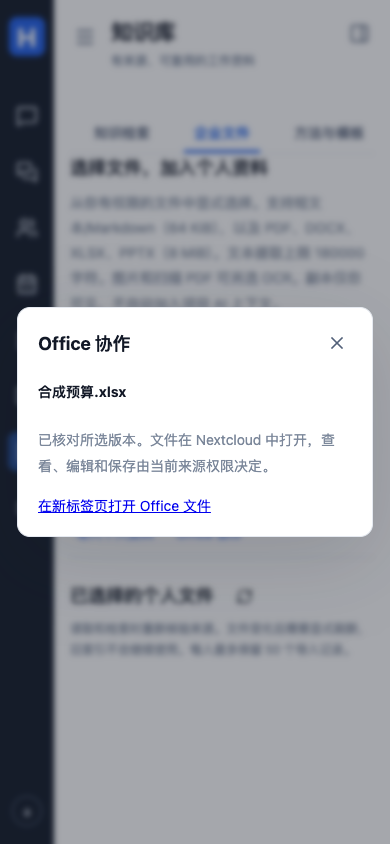
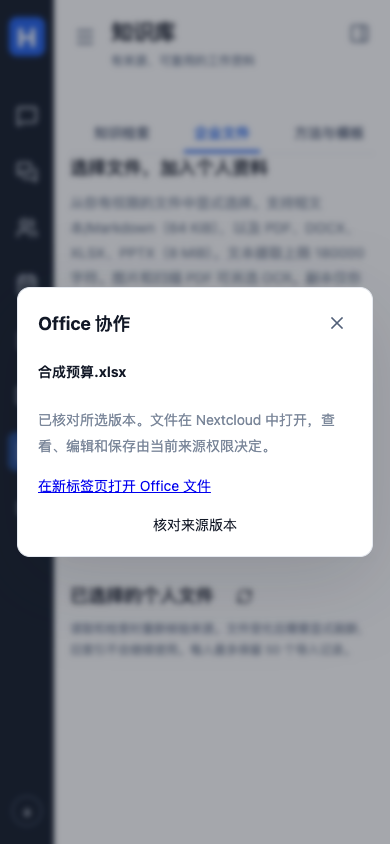
Check Office source versions and package the LAN editor deployment

Changed region(s): [[0.0308, 0.3389, 0.9538, 0.6777], [0.8308, 0.4929, 0.8615, 0.5237]]

diff --git a/apps/web/src/components/OfficeFileDialog.tsx b/apps/web/src/components/OfficeFileDialog.tsx
@@ -1,5 +1,5 @@
-import { useEffect, useState } from "react";
-import type { OfficeLink, SourceFile } from "@hyper/contracts";
+import { useEffect, useRef, useState } from "react";
+import type { OfficeLink, OfficeVersion, SourceFile } from "@hyper/contracts";
 import { api } from "../api";
 import { Dialog } from "./Dialog";
 
@@ -12,6 +12,9 @@ export function OfficeFileDialog({
 }) {
   const [link, setLink] = useState<OfficeLink>();
   const [error, setError] = useState("");
+  const [version, setVersion] = useState<OfficeVersion>();
+  const [checking, setChecking] = useState(false);
+  const versionRequest = useRef<AbortController>(null);
 
   useEffect(() => {
     const controller = new AbortController();
@@ -30,8 +33,40 @@ export function OfficeFileDialog({
       .catch((failure: Error) => {
         if (!controller.signal.aborted) setError(failure.message);
       });
-    return () => controller.abort();
+    return () => {
+      controller.abort();
+      versionRequest.current?.abort();
+    };
   }, [file]);
+
+  async function checkVersion() {
+    if (!link || versionRequest.current) return;
+    const controller = new AbortController();
+    versionRequest.current = controller;
+    setChecking(true);
+    setError("");
+    setVersion(undefined);
+    try {
+      const current = await api<OfficeVersion>("/files/office-version", {
+        method: "POST",
+        body: JSON.stringify({
+          path: file.path,
+          expectedId: file.id,
+          expectedEtag: link.checkedEtag,
+        }),
+        signal: controller.signal,
+      });
+      if (!controller.signal.aborted) setVersion(current);
+    } catch (failure) {
+      if (!controller.signal.aborted) {
+        setLink(undefined);
+        setError(failure instanceof Error ? failure.message : "来源核对失败。");
+      }
+    } finally {
+      versionRequest.current = null;
+      if (!controller.signal.aborted) setChecking(false);
+    }
+  }
 
   return (
     <Dialog title="Office 协作" onClose={onClose} error={error}>
@@ -43,9 +78,25 @@ export function OfficeFileDialog({
               已核对所选版本。文件在 Nextcloud
               中打开，查看、编辑和保存由当前来源权限决定。
             </p>
-            <a href={link.url} target="_blank" rel="noopener noreferrer">
-              在新标签页打开 Office 文件
-            </a>
+            {!checking && !version?.changed ? (
+              <a href={link.url} target="_blank" rel="noopener noreferrer">
+                在新标签页打开 Office 文件
+              </a>
+            ) : null}
+            <button
+              type="button"
+              onClick={() => void checkVersion()}
+              disabled={checking}
+            >
+              核对来源版本
+            </button>
+            {version ? (
+              <p role="status">
+                {version.changed
+                  ? "来源已有新版本。请刷新文件夹后重新打开。"
+                  : "来源仍是打开前核对的版本。"}
+              </p>
+            ) : null}
           </>
         ) : !error ? (
           <p role="status">正在核对文件版本和权限…</p>

diff --git a/apps/api/src/core/source-files.ts b/apps/api/src/core/source-files.ts
@@ -10,6 +10,7 @@ import {
   officeFormat,
   type OfficeLink,
   type OfficeSource,
+  type OfficeVersion,
   type Subject,
   type SourceFile,
 } from "@hyper/contracts";
@@ -49,24 +50,37 @@ export class SourceFileService {
   async list(s: Subject, path: string[]) {
     return (await this.connection(s)).provider.list(FilePath.parse(path));
   }
-  async officeLink(s: Subject, selection: OfficeSource): Promise<OfficeLink> {
+  private async officeSource(s: Subject, selection: OfficeSource) {
     if (process.env.NEXTCLOUD_OFFICE_ENABLED !== "true")
       throw new ServiceUnavailableException("企业 Office 协作尚未启用。");
     const source = await this.connection(s);
     const file = await source.provider.stat(selection.path);
-    if (
-      file.id !== selection.expectedId ||
-      file.etag !== selection.expectedEtag
-    )
+    if (file.id !== selection.expectedId)
       throw new ConflictException("所选文件已变化，请刷新文件夹后重试。");
     const format = officeFormat(file);
     if (!format)
       throw new BadRequestException("Office 协作支持 DOCX、XLSX 和 PPTX。");
     await source.provider.assertReadable(file);
+    return { file, format, publicUrl: source.config.publicUrl };
+  }
+  async officeLink(s: Subject, selection: OfficeSource): Promise<OfficeLink> {
+    const { file, format, publicUrl } = await this.officeSource(s, selection);
+    if (file.etag !== selection.expectedEtag)
+      throw new ConflictException("所选文件已变化，请刷新文件夹后重试。");
     return {
-      url: source.config.publicUrl + "/index.php/f/" + file.id,
+      url: publicUrl + "/index.php/f/" + file.id,
       format,
       checkedEtag: file.etag,
+    };
+  }
+  async officeVersion(
+    s: Subject,
+    selection: OfficeSource,
+  ): Promise<OfficeVersion> {
+    const { file } = await this.officeSource(s, selection);
+    return {
+      checkedEtag: file.etag,
+      changed: file.etag !== selection.expectedEtag,
     };
   }
   private rows(s: Subject, ids?: string[]) {

diff --git a/tests/integration/office-link.test.ts b/tests/integration/office-link.test.ts
@@ -45,6 +45,10 @@ test("Office link binds to the selected source version and each employee's live 
     format: "xlsx",
   };
   assert.deepEqual(await service.officeLink(f.actor, selection), expectLink);
+  assert.deepEqual(await service.officeVersion(f.actor, selection), {
+    checkedEtag: selection.expectedEtag,
+    changed: false,
+  });
   await assert.rejects(service.officeLink(f.peer, selection), /文件来源拒绝/);
   file.readers.add("bob");
   assert.deepEqual(await service.officeLink(f.peer, selection), expectLink);
@@ -56,6 +60,23 @@ test("Office link binds to the selected source version and each employee's live 
   );
   await assert.rejects(
     service.officeLink(f.actor, { ...selection, expectedEtag: '"stale"' }),
+    /所选文件已变化/,
+  );
+  file.etag = '"v2"';
+  assert.deepEqual(await service.officeVersion(f.actor, selection), {
+    checkedEtag: file.etag,
+    changed: true,
+  });
+  await assert.rejects(
+    service.officeLink(f.actor, selection),
+    /所选文件已变化/,
+  );
+  await assert.rejects(
+    service.officeVersion(f.peer, selection),
+    /文件来源拒绝/,
+  );
+  await assert.rejects(
+    service.officeVersion(f.actor, { ...selection, expectedId: "9999" }),
     /所选文件已变化/,
   );
   const txt = f.source.files.add(

diff --git a/apps/api/src/main.ts b/apps/api/src/main.ts
@@ -806,6 +806,15 @@ class ApiController {
   ) {
     return new SourceFileService(db).officeLink(await subject(req), OfficeSource.parse(body));
   }
+  @Post("files/office-version") async officeVersion(
+    @Req() req: Request,
+    @Body() body: unknown,
+  ) {
+    return new SourceFileService(db).officeVersion(
+      await subject(req),
+      OfficeSource.parse(body),
+    );
+  }
   @Post("files/import") async importFile(
     @Req() req: Request,
     @Body() body: unknown,

diff --git a/packages/contracts/src/index.ts b/packages/contracts/src/index.ts
@@ -1101,6 +1101,11 @@ export interface OfficeLink {
   checkedEtag: string;
 }
 
+export interface OfficeVersion {
+  checkedEtag: string;
+  changed: boolean;
+}
+
 export const FileReadingInput = z
   .object({
     engine: z.enum(["dsh", "hermes"]).default("dsh"),

diff --git a/runtime/nextcloud/install-office.py b/runtime/nextcloud/install-office.py
@@ -1,0 +1,57 @@
+"""Prepare the pinned Nextcloud Office connector without changing a running server."""
+import hashlib
+import json
+from pathlib import Path
+import tarfile
+import tempfile
+import urllib.request
+import xml.etree.ElementTree as ET
+
+location = Path(__file__).resolve().parent
+lock = json.loads((location / "office.lock.json").read_text())
+output = location.parents[1] / ".runtime" / "nextcloud"
+output.mkdir(parents=True, exist_ok=True)
+archive = output / f"richdocuments-v{lock['version']}.tar.gz"
+prepared = output / "richdocuments"
+
+
+def verify_manifest(manifest):
+    dependency = manifest.find("dependencies/nextcloud")
+    major = lock["serverMajor"]
+    if (manifest.findtext("id") != "richdocuments"
+            or manifest.findtext("version") != lock["version"]
+            or dependency is None
+            or dependency.get("min-version") != major
+            or dependency.get("max-version") != major):
+        raise RuntimeError("Office connector version or Nextcloud compatibility mismatch")
+
+
+def verify_archive(path):
+    with path.open("rb") as stream:
+        if path.stat().st_size != lock["size"] or hashlib.file_digest(stream, "sha256").hexdigest() != lock["sha256"]:
+            raise RuntimeError("Office connector archive integrity check failed")
+
+
+if not archive.exists():
+    with tempfile.TemporaryDirectory(dir=output) as scratch:
+        partial = Path(scratch) / archive.name
+        request = urllib.request.Request(lock["archive"], headers={"User-Agent": "Hyper-Workspace"})
+        with urllib.request.urlopen(request, timeout=60) as response, partial.open("wb") as stream:
+            total = 0
+            while chunk := response.read(1024 * 1024):
+                total += len(chunk)
+                if total > lock["size"]:
+                    raise RuntimeError("Office connector archive exceeds pinned size")
+                stream.write(chunk)
+        verify_archive(partial)
+        partial.replace(archive)
+
+verify_archive(archive)
+if not prepared.exists():
+    with tempfile.TemporaryDirectory(dir=output) as scratch, tarfile.open(archive) as bundle:
+        verify_manifest(ET.fromstring(bundle.extractfile("richdocuments/appinfo/info.xml").read()))
+        members = [member for member in bundle.getmembers() if Path(member.name).parts[:1] == ("richdocuments",)]
+        bundle.extractall(scratch, members, filter="data")
+        (Path(scratch) / "richdocuments").rename(prepared)
+verify_manifest(ET.parse(prepared / "appinfo" / "info.xml").getroot())
+print("Prepared verified Nextcloud Office " + lock["version"])

diff --git a/docs/OFFICE.md b/docs/OFFICE.md
@@ -1,6 +1,6 @@
 # 复杂表格与 Office 协作
 
-企业文件中的 DOCX、XLSX 和 PPTX 使用同一 Nextcloud 办公入口。Hyper Workspace 先用当前员工的来源连接核对路径、文件 ID、ETag 与实际读取权限，再提供 Nextcloud 文件短链接。链接不包含凭据，浏览器通过自己的 Nextcloud 会话打开文件，编辑、分享和版本由来源系统授权。入口核对记录反映打开前看到的版本。编辑中的协作与最终保存要到来源系统另行核对。 [Nextcloud 文件短链接](https://github.com/nextcloud/office)
+企业文件中的 DOCX、XLSX 和 PPTX 使用同一 Nextcloud 办公入口。Hyper Workspace 先用当前员工的来源连接核对路径、文件 ID、ETag 与实际读取权限，再提供 Nextcloud 文件短链接。链接不包含凭据，浏览器通过自己的 Nextcloud 会话打开文件，编辑、分享和版本由来源系统授权。入口核对记录反映打开前看到的版本。返回工作台后，可选择“核对来源版本”。产品使用当前员工权限重新读取同一文件并对比 ETag。发现换版时要求刷新目录后重新打开。版本变化仅证明来源发生变化，保存归属和具体修改以来源编辑历史为准。 [Nextcloud 文件短链接](https://github.com/nextcloud/office)
 
 ## 办公内核评估
 
@@ -13,3 +13,47 @@
 PostgreSQL 与合成 WebDAV 来源覆盖了功能开关、员工本人、同工作区管理员无文件权限、共享后打开、撤销读取后拒绝、文件 ID 或 ETag 变化，以及不支持的格式。Chromium 在桌面和手机尺寸下验证了入口、链接和撤权提示。编辑器连接、真实往返与并发保存、复杂工作簿及双执行器工具属于后续验收。 [合成表格的手机入口](images/office-source-link-mobile.png)
 
 GitHub Actions 加入固定版本的真实编辑器检查。隔离运行器验证公开组件的镜像和安装包、Nextcloud 的 WOPI 连接，并等待 Collabora 报告三种合成文档加载完成。这个检查验证实际打开，协作保存和格式往返另行验收。
+
+## 公司内网安装方案
+
+在 [内网部署](DEPLOYMENT-INTRANET.md) 的固定 IP 与内部 CA 配置上叠加 `deploy/compose.office.yaml`。办公室编辑器使用独立的 HTTPS 8444 端口，Nextcloud 继续使用 8443。下面用示例内网 IP，实际配置以公司分配地址为准。容器镜像和连接器版本见 `runtime/nextcloud/office.lock.json`。真实编辑器 CI 使用隔离的明文回环环境。本机已用临时 CA 验证 Office 代理保留主机、升级 WebSocket、拒绝外部调用内部转换路由。实际公司 HTTPS 组合在目标网络另行复验。
+
+在私有 Compose 环境文件追加：
+
+```dotenv
+NEXTCLOUD_FILES_ENABLED=true
+NEXTCLOUD_OFFICE_ENABLED=true
+HYPER_OFFICE_PUBLIC_HOST=192.168.10.50:8444
+HYPER_OFFICE_PORT=8091
+```
+
+使用 Python 3.12 或更新版本准备签名连接器和容器。以下命令用于首次安装连接器，已有应用时使用 Nextcloud 的升级与备份流程。已有 OCR 等叠加文件应继续保留在命令中。
+
+```sh
+office_compose() {
+  docker compose --env-file .env.compose -f compose.yaml \
+    -f deploy/compose.source.yaml -f deploy/compose.intranet.yaml \
+    -f deploy/compose.office.yaml "$@"
+}
+office_compose config --quiet
+python3 runtime/nextcloud/install-office.py
+office_compose up -d --wait nextcloud collabora
+source_container="$(office_compose ps -q nextcloud)"
+editor_container="$(office_compose ps -q collabora)"
+office_occ() { docker exec --user www-data "$source_container" php occ "$@"; }
+office_install_connector() {
+  docker exec "$source_container" test ! -e /var/www/html/custom_apps/richdocuments &&
+    docker cp .runtime/nextcloud/richdocuments "$source_container":/var/www/html/custom_apps/ &&
+    docker exec --user root "$source_container" chown -R www-data:www-data /var/www/html/custom_apps/richdocuments &&
+    office_occ app:enable richdocuments &&
+    office_occ integrity:check-app richdocuments
+}
+office_install_connector
+editor_ip="$(docker inspect --format '{{range .NetworkSettings.Networks}}{{.IPAddress}}{{end}}' "$editor_container")"
+test -n "$editor_ip"
+office_occ config:app:set richdocuments wopi_allowlist --value="$editor_ip"
+office_occ richdocuments:activate-config --wopi-url=http://collabora:9980 --callback-url=http://nextcloud
+office_occ config:app:get richdocuments public_wopi_url
+```
+
+公开编辑器地址应为公司固定 IP 上的 `https://192.168.10.50:8444`。安装 [Office Nginx 模板](../deploy/nginx.office.intranet.conf.example)，替换监听 IP、证书路径和回环端口，执行 `nginx -t` 后再重载。通过受信任的公司根证书访问 `/hosting/discovery`，再从员工浏览器打开 DOCX、XLSX 和 PPTX。应用容器内的 Collabora 地址只供 Nextcloud 查询发现和功能，回调只走隔离容器网络。若重建 Collabora 后容器地址变化，重新设置 WOPI 白名单并复核连通性。确认来源连接器和编辑器都可用后，以同一 Compose 文件组合重建 API 和 Worker 让入口启用。

diff --git a/README.md b/README.md
@@ -31,7 +31,7 @@
 
 ## 复杂表格与 Office 协作
 
-企业文件已加入 DOCX、XLSX 和 PPTX 的统一 Office 入口。服务核对员工权限和所选版本，再通过 Nextcloud 打开。桌面和手机入口已通过合成来源验证，当前推进真实编辑器、协作保存与双执行器操作。 [Office 接入与验证范围](docs/OFFICE.md) · [手机入口](docs/images/office-source-link-mobile.png)
+企业文件已加入 DOCX、XLSX 和 PPTX 的统一 Office 入口。服务核对员工权限和所选版本，再通过 Nextcloud 打开。返回后可核对来源是否已有新版本。桌面和手机入口已通过合成来源验证，当前推进真实编辑器、协作保存与双执行器操作。 [Office 接入与验证范围](docs/OFFICE.md) · [手机入口](docs/images/office-source-link-mobile.png)
 
 [![CI](https://github.com/MkaliezZ/hyper-workspace-next/actions/workflows/ci.yml/badge.svg)](https://github.com/MkaliezZ/hyper-workspace-next/actions/workflows/ci.yml)
 
